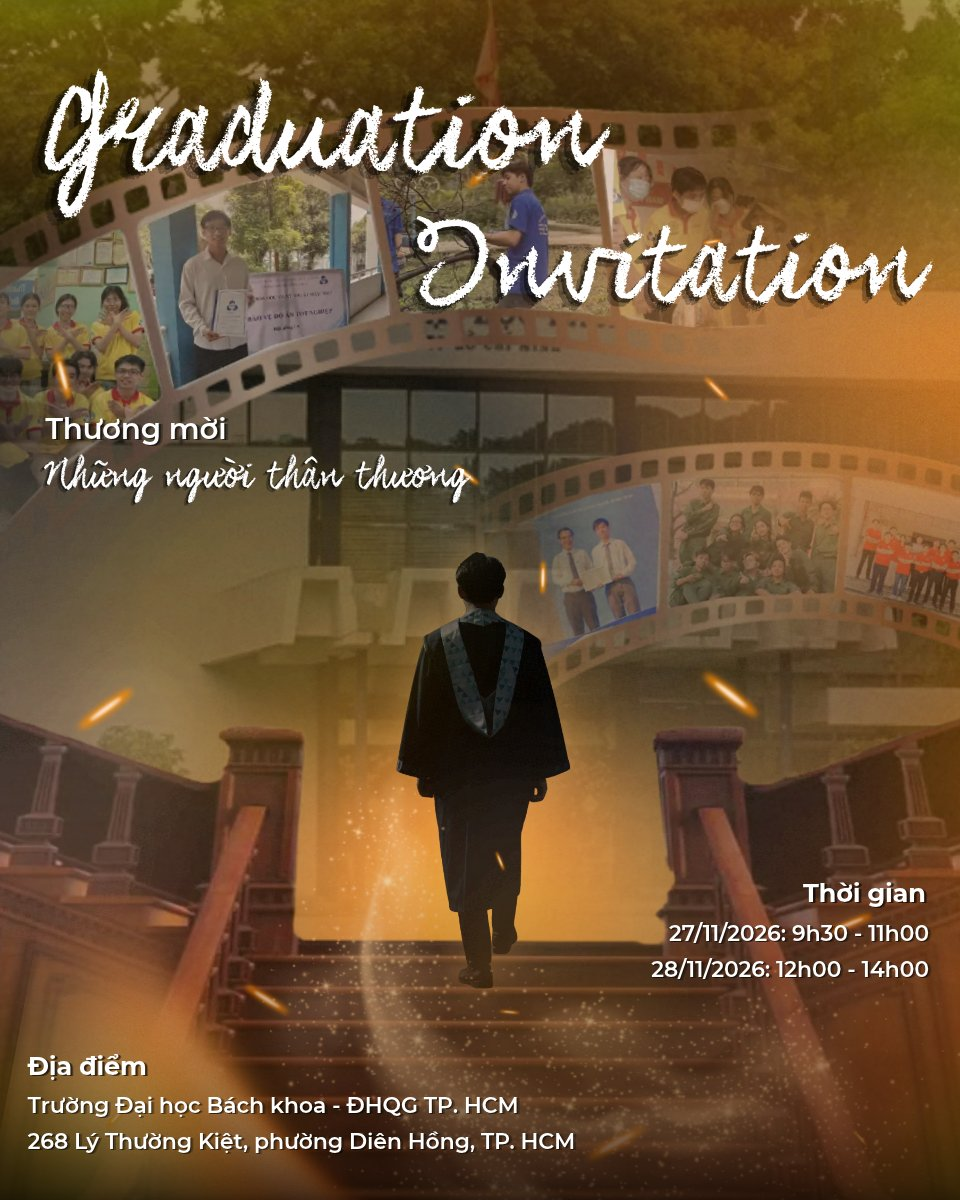
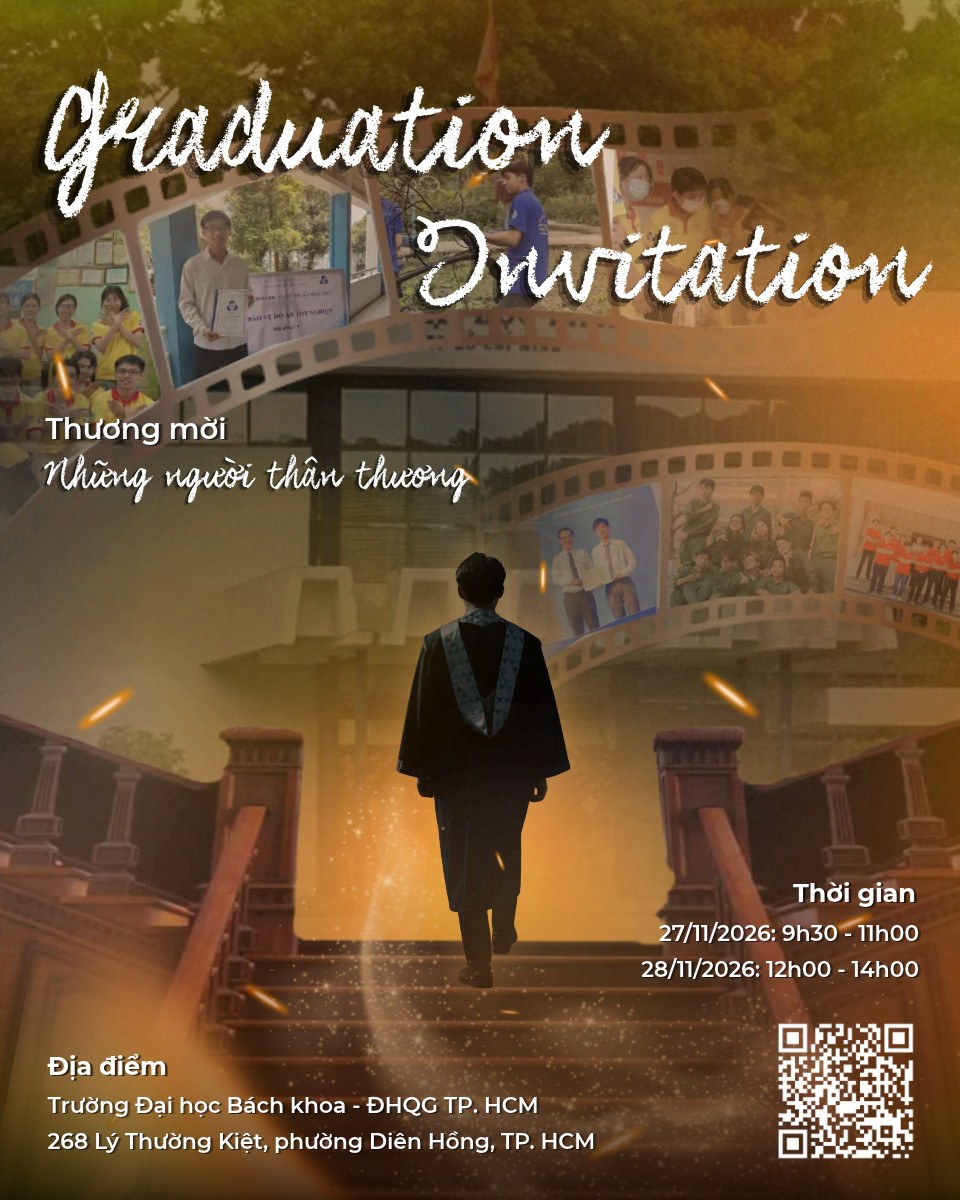
Use invitation card with QR code

Changed region(s): [[0.6562, 0.74, 0.9688, 0.9867], [0.0312, 0.8633, 0.625, 0.9867]]

diff --git a/index.html b/index.html
@@ -9,7 +9,7 @@
   <meta property="og:description" content="Lễ tốt nghiệp · 27 & 28/11/2026 · Trường Đại học Bách khoa - ĐHQG TP. HCM">
   <meta property="og:type" content="website">
   <meta property="og:url" content="https://tienkhoa03.github.io/graduation-invitation/">
-  <meta property="og:image" content="https://tienkhoa03.github.io/graduation-invitation/images/invitation.jpg">
+  <meta property="og:image" content="https://tienkhoa03.github.io/graduation-invitation/images/invitation.jpg?v=2">
   <meta name="theme-color" content="#0c0805">
   <link rel="preconnect" href="https://fonts.googleapis.com">
   <link rel="preconnect" href="https://fonts.gstatic.com" crossorigin>
@@ -46,7 +46,7 @@
     <figure class="hero__card intro intro--card">
       <div class="hero__frame">
         <img class="hero__ambient" src="images/invitation-scene.jpg?v=2" alt="" aria-hidden="true" width="1602" height="1804">
-        <img class="hero__photo" src="images/invitation.jpg" alt="Thiệp mời lễ tốt nghiệp: một tân cử nhân bước lên bậc thềm Bách Khoa" width="960" height="1200">
+        <img class="hero__photo" src="images/invitation.jpg?v=2" alt="Thiệp mời lễ tốt nghiệp: một tân cử nhân bước lên bậc thềm Bách Khoa" width="960" height="1200">
       </div>
     </figure>
 
